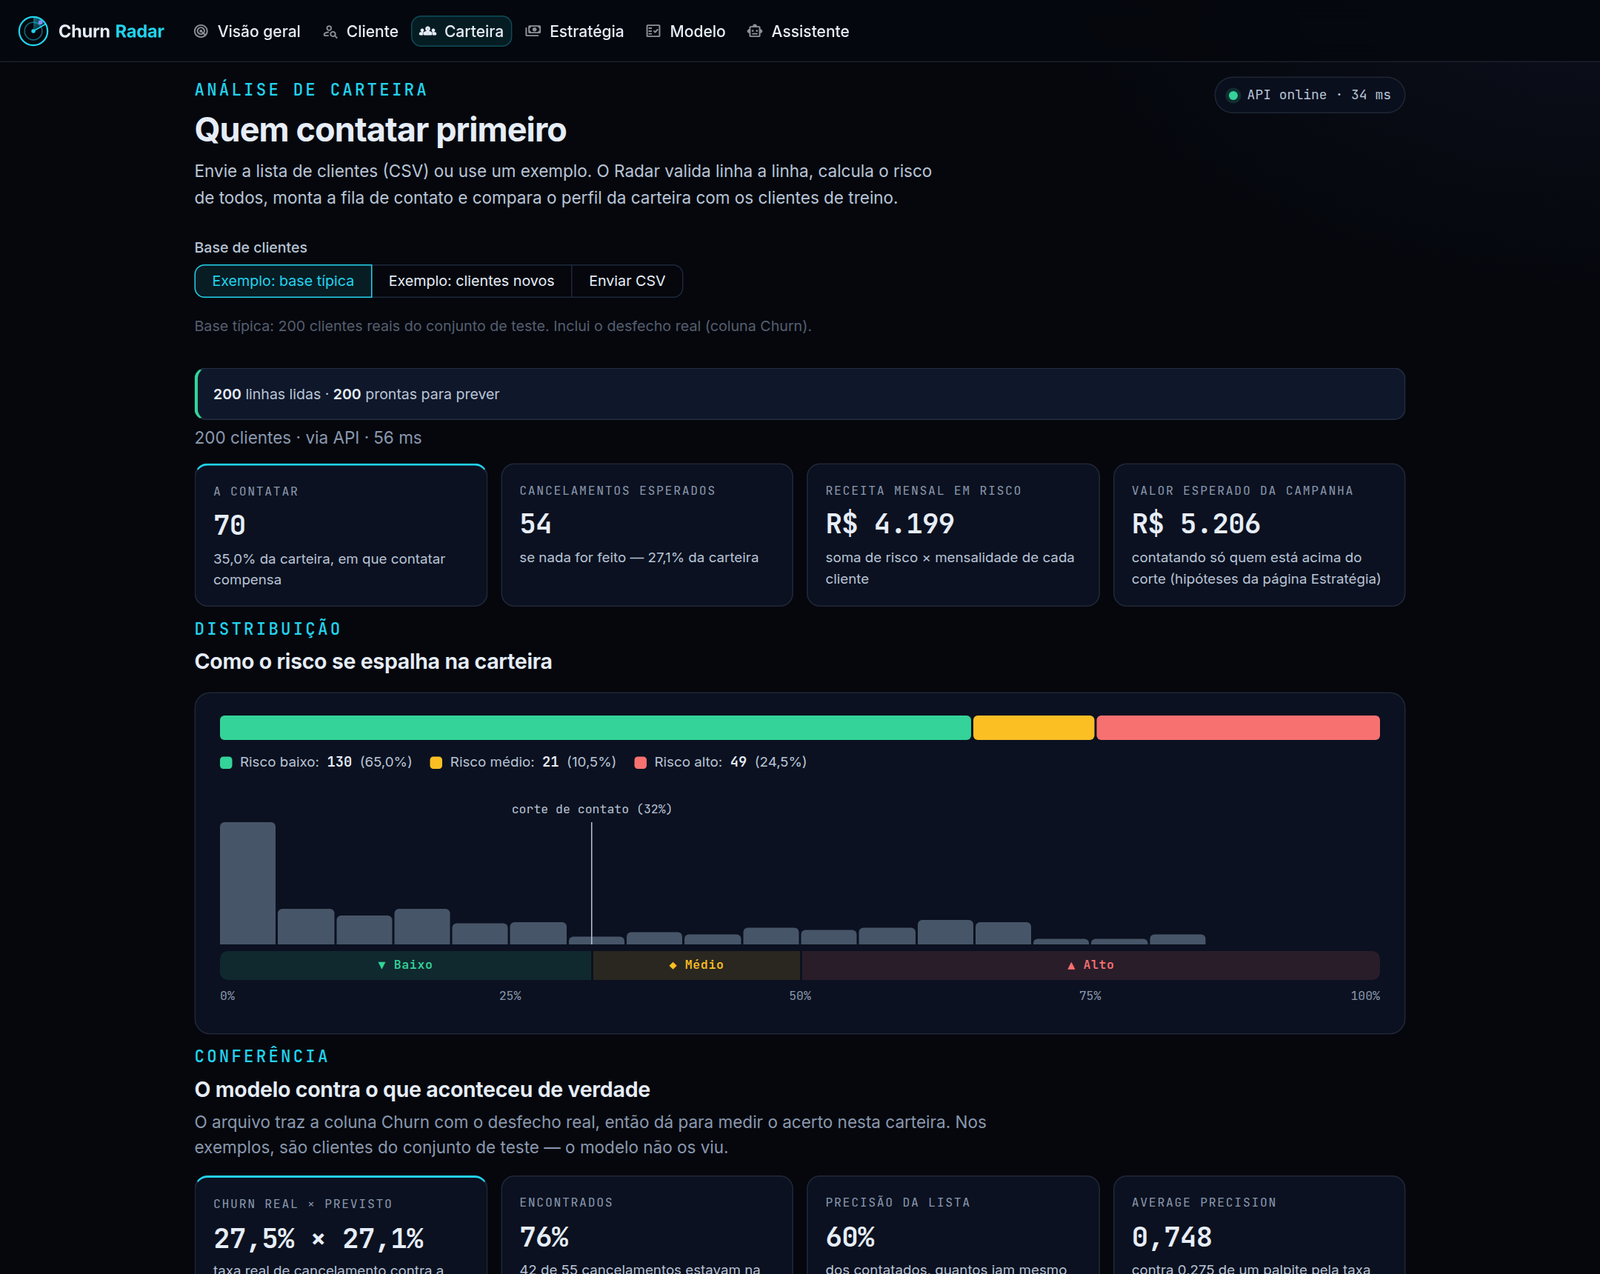
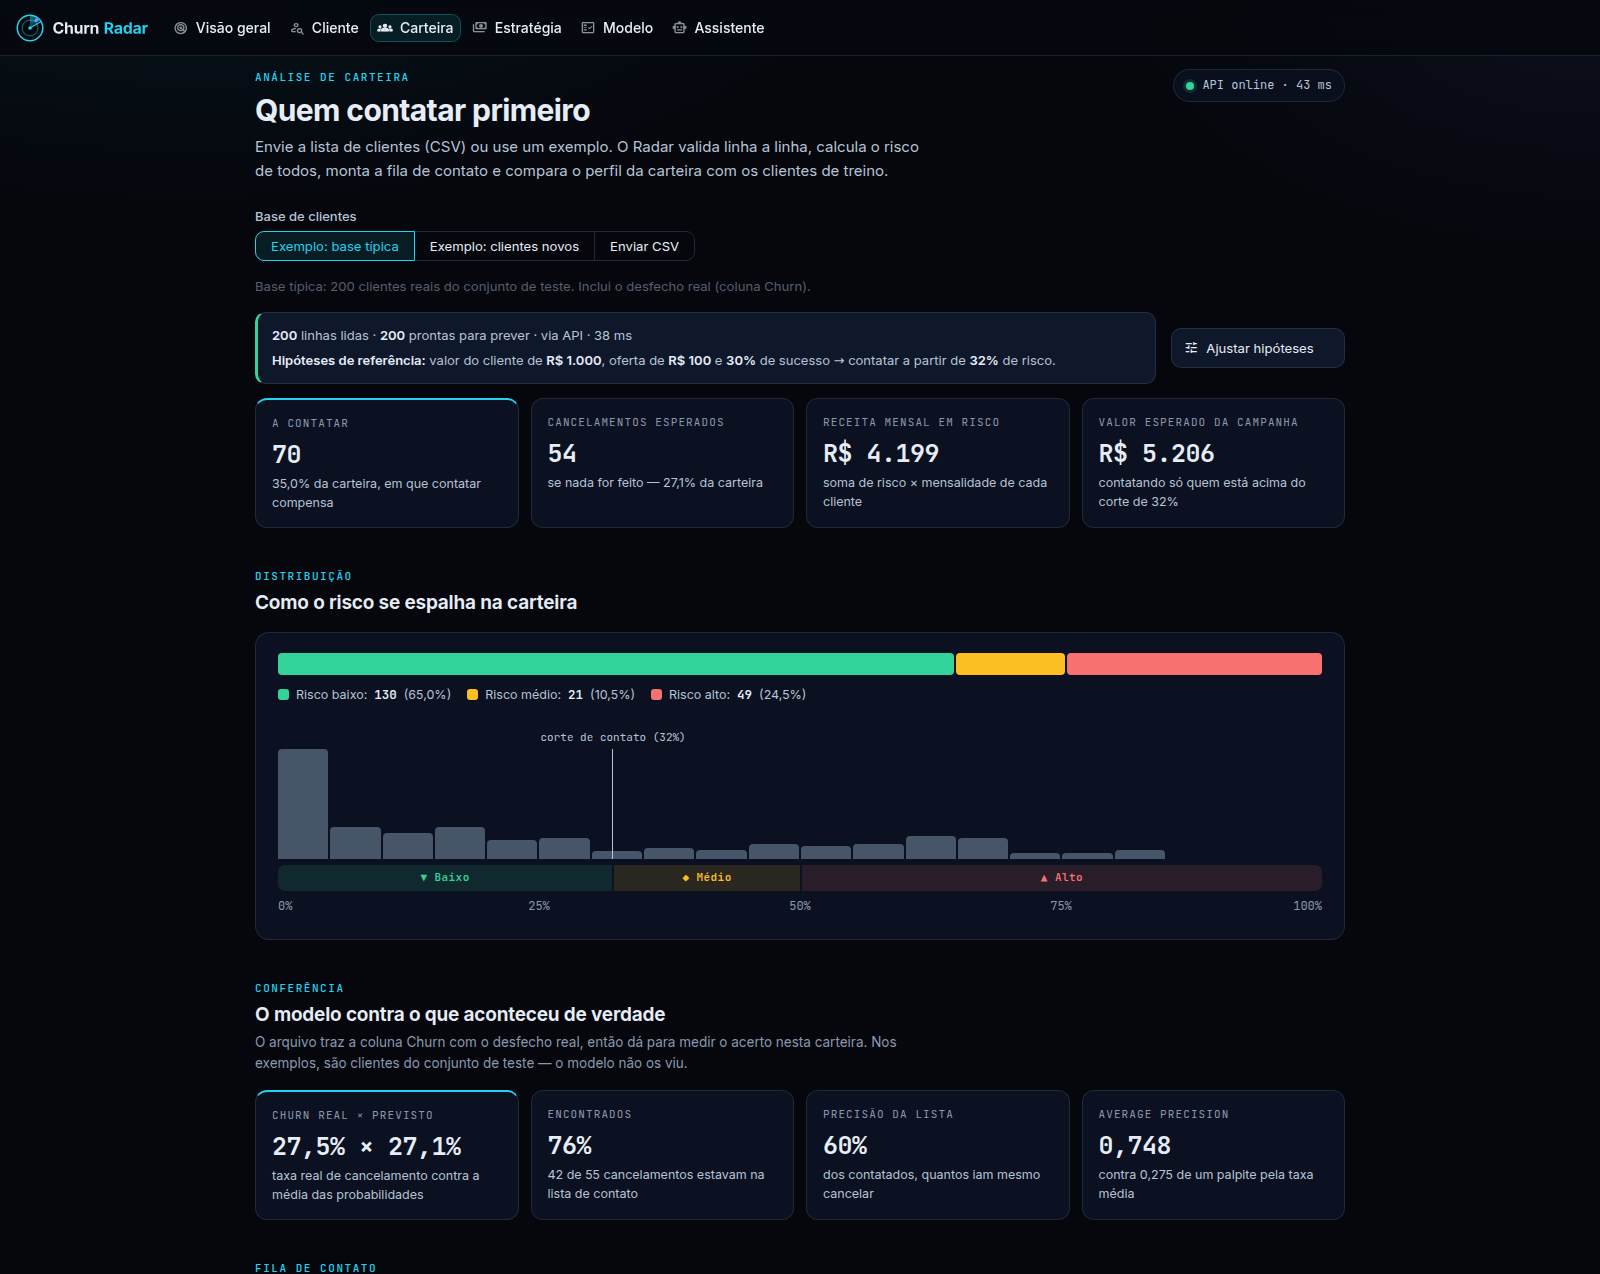
chore: pendências de baixa prioridade e capturas novas do README

diff --git a/src/labels.py b/src/labels.py
@@ -117,56 +117,6 @@ def _split_feature(feature: str) -> tuple[str, str | None]:
     return field, category
 
 
-def _category_label(field: str, category: str) -> str:
-    return VALUE_LABELS.get(field, {}).get(category, category).lower()
-
-
-def feature_name(feature: str) -> str:
-    """Nome legível de uma feature do modelo, sem valor.
-
-    'Contract_Two year' -> 'Contrato: bienal (2 anos)'
-    """
-    field, category = _split_feature(feature)
-    label = FIELD_LABELS.get(field, field)
-    if category is None or category == "Yes":
-        return label
-    if field == "InternetService" and category == "No":
-        return "Sem internet"
-    if field == "gender":
-        return "Gênero masculino" if category == "Male" else label
-    return f"{label}: {_category_label(field, category)}"
-
-
-def describe_feature(feature: str, value: float) -> str:
-    """Feature + valor deste cliente em português, para as explicações.
-
-    Numéricas mostram o valor real; as demais são dummies do one-hot (0/1),
-    então a frase diz se o cliente TEM ou NÃO TEM aquela categoria:
-    'Contrato: não é bienal (2 anos)' em vez de 'Contract_Two year = 0'.
-    """
-    field, category = _split_feature(feature)
-    label = FIELD_LABELS.get(field, field)
-    if field == "tenure":
-        return f"{label}: {value:.0f} {'mês' if round(value) == 1 else 'meses'}"
-    if field in ("MonthlyCharges", "TotalCharges"):
-        return f"{label}: {fmt_brl(value, cents=True)}"
-
-    active = value >= 0.5
-    if field == "SeniorCitizen" or category == "Yes":
-        return f"{label}: {'sim' if active else 'não'}"
-    if field == "gender":
-        return f"{label}: {'masculino' if active else 'feminino'}"
-    if field == "InternetService" and category == "No":
-        return "Sem internet" if active else "Tem internet"
-
-    cat = _category_label(field, category)
-    if cat.startswith("sem "):
-        # "No internet service" / "No phone service": a negação natural de
-        # "sem internet" é "com internet", não "não é sem internet".
-        return f"{label}: {cat}" if active else f"{label}: com {cat[4:]}"
-    return f"{label}: {cat}" if active else f"{label}: não é {cat}"
-
-
 def field_value_text(field: str, value) -> str:
     """Valor cru de um campo, formatado para leitura ('Fiber optic' -> 'Fibra óptica')."""
     if field == "tenure":

diff --git a/tests/test_api.py b/tests/test_api.py
@@ -262,3 +262,47 @@ def test_rate_limit_nao_e_driblado_trocando_o_x_forwarded_for(monkeypatch):
         for i in range(5)
     ]
     assert codes.count(429) == 2
+
+
+class TestErrosDoServidor:
+    """O payload já passou pelo Pydantic: o que falhar depois é do servidor
+    (modelo corrompido, versão incompatível). Resposta curta, sem traceback."""
+
+    @staticmethod
+    def _quebra(*args, **kwargs):
+        raise RuntimeError("modelo corrompido")
+
+    def test_predict_devolve_500_sem_vazar_o_erro(self, monkeypatch):
+        monkeypatch.setattr(api_module.predictor, "predict", self._quebra)
+        response = client.post("/predict", json=make_customer())
+        assert response.status_code == 500
+        assert response.json() == {"detail": "Erro interno ao gerar a previsão."}
+
+    def test_lote_devolve_500(self, monkeypatch):
+        monkeypatch.setattr(api_module.predictor, "predict", self._quebra)
+        response = client.post("/predict/batch", json={"customers": [make_customer()]})
+        assert response.status_code == 500
+        assert "lote" in response.json()["detail"]
+
+    def test_explain_sem_shap_devolve_503(self, monkeypatch):
+        def sem_shap(*args, **kwargs):
+            raise ImportError("No module named 'shap'")
+
+        monkeypatch.setattr(api_module.predictor, "explain", sem_shap)
+        response = client.post("/explain", json=make_customer())
+        assert response.status_code == 503
+        assert "SHAP" in response.json()["detail"]
+
+    def test_explain_com_erro_inesperado_devolve_500(self, monkeypatch):
+        monkeypatch.setattr(api_module.predictor, "explain", self._quebra)
+        response = client.post("/explain", json=make_customer())
+        assert response.status_code == 500
+
+
+def test_429_tambem_vai_para_o_log(monkeypatch, caplog):
+    monkeypatch.setattr(api_module, "RATE_LIMIT_PER_MINUTE", 1)
+    monkeypatch.setattr(api_module, "_hits", api_module.defaultdict(api_module.deque))
+    with caplog.at_level("INFO", logger="churn_api"):
+        codes = [client.post("/predict", json=make_customer()).status_code for _ in range(2)]
+    assert codes == [200, 429]
+    assert any('"status": 429' in record.getMessage() for record in caplog.records)

diff --git a/src/api.py b/src/api.py
@@ -86,26 +86,33 @@ def _client_ip(request: Request) -> str:
     return request.client.host if request.client else "desconhecido"
 
 
+def _rate_limited(request: Request) -> JSONResponse | None:
+    """429 se este IP passou do limite no último minuto; None se pode seguir."""
+    if RATE_LIMIT_PER_MINUTE <= 0 or request.url.path not in _RATE_LIMITED_PATHS:
+        return None
+    now = time.monotonic()
+    hits = _hits[_client_ip(request)]
+    while hits and now - hits[0] > 60:
+        hits.popleft()
+    if len(hits) >= RATE_LIMIT_PER_MINUTE:
+        return JSONResponse(
+            status_code=429,
+            content={"detail": "Muitas requisições. Tente de novo em um minuto."},
+            headers={"Retry-After": "60"},
+        )
+    hits.append(now)
+    if len(_hits) > 10_000:  # descarta IPs sem requisição no último minuto
+        for ip in [ip for ip, q in _hits.items() if not q or now - q[-1] > 60]:
+            del _hits[ip]
+    return None
+
+
 @app.middleware("http")
 async def rate_limit_and_log(request: Request, call_next):
-    if RATE_LIMIT_PER_MINUTE > 0 and request.url.path in _RATE_LIMITED_PATHS:
-        now = time.monotonic()
-        hits = _hits[_client_ip(request)]
-        while hits and now - hits[0] > 60:
-            hits.popleft()
-        if len(hits) >= RATE_LIMIT_PER_MINUTE:
-            return JSONResponse(
-                status_code=429,
-                content={"detail": "Muitas requisições. Tente de novo em um minuto."},
-                headers={"Retry-After": "60"},
-            )
-        hits.append(now)
-        if len(_hits) > 10_000:  # descarta IPs sem requisição no último minuto
-            for ip in [ip for ip, q in _hits.items() if not q or now - q[-1] > 60]:
-                del _hits[ip]
-
     started = time.perf_counter()
-    response = await call_next(request)
+    # Os 429 também passam pelo log abaixo: antes eles saíam direto, e um
+    # abuso (ou um cliente legítimo travado no limite) ficava invisível.
+    response = _rate_limited(request) or await call_next(request)
     elapsed_ms = (time.perf_counter() - started) * 1000
     response.headers["X-Response-Time-ms"] = f"{elapsed_ms:.1f}"
     if request.url.path != "/health":

diff --git a/src/train.py b/src/train.py
@@ -503,7 +503,7 @@ def consistent_partial_dependence(
 
 
 def redundancy_stats(X_full: pd.DataFrame) -> dict[str, float]:
-    """Evidência para EXCLUDED_FEATURES, medida nos dados a cada treino.
+    """Evidência para EXCLUDED_FEATURES, medida nos dados de TREINO a cada treino.
 
     - `monthly_r2_services`: R² de uma regressão linear da mensalidade sobre
       as dummies dos serviços contratados (1,0 = totalmente determinada).
@@ -550,17 +550,20 @@ def main() -> None:
 
     raw = load_raw_data(RAW_DATA_PATH)
     X_full = preprocess_features(raw[RAW_INPUT_COLUMNS])
-    redundancy = redundancy_stats(X_full)
     X_all = X_full.drop(columns=list(EXCLUDED_FEATURES))
-    print(
-        f"Mensalidade explicada pelos serviços: R² = {redundancy['monthly_r2_services']:.3f} "
-        f"| correlação total gasto × tempo de casa: {redundancy['total_vs_tenure_corr']:.2f}"
-    )
     y_all = raw[TARGET_COL].astype(int)
     feature_columns = list(X_all.columns)
 
     idx_train, idx_test = train_test_split(
         raw.index, test_size=TEST_SIZE, random_state=RANDOM_STATE, stratify=y_all
+    )
+    # A evidência para tirar mensalidade e total gasto do modelo é uma decisão
+    # de modelagem: medida só no treino, como todas as outras. O teste só é
+    # tocado na avaliação final.
+    redundancy = redundancy_stats(X_full.loc[idx_train])
+    print(
+        f"Mensalidade explicada pelos serviços: R² = {redundancy['monthly_r2_services']:.3f} "
+        f"| correlação total gasto × tempo de casa: {redundancy['total_vs_tenure_corr']:.2f}"
     )
     X_train, X_test = X_all.loc[idx_train], X_all.loc[idx_test]
     y_train, y_test = y_all.loc[idx_train], y_all.loc[idx_test]

diff --git a/tests/test_ui.py b/tests/test_ui.py
@@ -57,6 +57,16 @@ def test_tabela_leva_o_nome_da_coluna_em_cada_celula():
     assert "cr-table--stack" in markup
 
 
+def test_logit_para_probabilidade_nao_estoura_com_valores_extremos():
+    """A conversão usada na explicação aceita log-odds de qualquer tamanho
+    (math.exp(-x) puro dava OverflowError para x < -709)."""
+    from src.ui.charts import logit_to_p
+
+    assert logit_to_p(-1000) == 0.0
+    assert logit_to_p(1000) == 1.0
+    assert logit_to_p(0) == 0.5
+
+
 def test_app_completo_abre_na_visao_geral():
     at = AppTest.from_file(APP, default_timeout=TIMEOUT).run()
     assert not at.exception
@@ -235,6 +245,18 @@ class TestAssistente:
         text = html(at)
         assert "previsão do modelo" in text
         assert "R\\$ 124" in text  # cifrão escapado: não vira fórmula no Markdown
+        # O contador do topo já desconta a pergunta feita (antes ficava velho
+        # até a próxima interação).
+        assert "2 pergunta(s) ao vivo disponível(is)" in text
+
+    def test_pergunta_bloqueada_pelo_limite_avisa_em_vez_de_sumir(self, monkeypatch):
+        monkeypatch.setenv("GEMINI_API_KEY", "chave-de-teste")
+        monkeypatch.setattr("src.ui.pages.assistente.AGENT_MAX_QUESTIONS_PER_SESSION", 0)
+        at = page("assistente")
+        at.session_state["pending_prompt"] = "Qual o risco deste cliente?"
+        at.run()
+        assert not at.exception
+        assert "Sua pergunta não foi enviada" in html(at)
 
 
 def test_assistente_mostra_resposta_gravada_com_data_e_modelo(tmp_path, monkeypatch):

diff --git a/tests/test_labels.py b/tests/test_labels.py
@@ -5,8 +5,6 @@ import pytest
 from src.labels import (
     FIELD_LABELS,
     VALUE_LABELS,
-    describe_feature,
-    feature_name,
     field_contributions,
     field_value_text,
     value_label,
@@ -22,35 +20,6 @@ def test_todo_campo_tem_rotulo_em_portugues():
 @pytest.mark.parametrize("field", list(CATEGORY_OPTIONS))
 def test_todo_valor_categorico_tem_traducao(field):
     assert set(VALUE_LABELS[field]) == set(CATEGORY_OPTIONS[field])
-
-
-@pytest.mark.parametrize(
-    "feature,expected",
-    [
-        ("Contract_Two year", "Contrato: bienal (2 anos)"),
-        ("InternetService_No", "Sem internet"),
-        ("gender_Male", "Gênero masculino"),
-        ("TechSupport_Yes", "Suporte técnico"),
-        ("tenure", "Tempo de casa"),
-    ],
-)
-def test_feature_name(feature, expected):
-    assert feature_name(feature) == expected
-
-
-@pytest.mark.parametrize(
-    "feature,value,expected",
-    [
-        ("tenure", 1, "Tempo de casa: 1 mês"),
-        ("tenure", 5, "Tempo de casa: 5 meses"),
-        ("MonthlyCharges", 85.5, "Mensalidade: R$ 85,50"),
-        ("Contract_Two year", 0, "Contrato: não é bienal (2 anos)"),
-        ("OnlineSecurity_No internet service", 0, "Segurança online: com internet"),
-        ("SeniorCitizen", 1, "Idoso: sim"),
-    ],
-)
-def test_describe_feature(feature, value, expected):
-    assert describe_feature(feature, value) == expected
 
 
 def test_value_label():

diff --git a/src/ui/data.py b/src/ui/data.py
@@ -8,8 +8,9 @@ from __future__ import annotations
 
 import json
 import threading
-from datetime import UTC, datetime
+from datetime import datetime, timedelta, timezone, tzinfo
 from pathlib import Path
+from zoneinfo import ZoneInfo, ZoneInfoNotFoundError
 
 import numpy as np
 import pandas as pd
@@ -146,8 +147,22 @@ def _agent_usage() -> dict:
     return {"lock": threading.Lock(), "date": None, "count": 0, "quota_date": None}
 
 
+def _quota_timezone() -> tzinfo:
+    """A cota gratuita do Gemini zera à meia-noite do Pacífico, não à do UTC.
+
+    Contar o dia em UTC liberava perguntas ~8 h antes de a cota voltar: a
+    primeira falhava e a página só então marcava a cota como esgotada. Sem a
+    base de fusos (Windows sem o pacote tzdata), usa UTC−8 fixo — erra por
+    no máximo 1 h no horário de verão, em vez de 8 h.
+    """
+    try:
+        return ZoneInfo("America/Los_Angeles")
+    except ZoneInfoNotFoundError:
+        return timezone(timedelta(hours=-8))
+
+
 def _today() -> str:
-    return datetime.now(UTC).date().isoformat()
+    return datetime.now(_quota_timezone()).date().isoformat()
 
 
 def agent_questions_today() -> int:

diff --git a/src/ui/pages/assistente.py b/src/ui/pages/assistente.py
@@ -261,6 +261,7 @@ def render() -> None:
         s.demo_preloaded = True
         _add_recorded("prever")
     _demo_cards(live)
+    blocked_reason = reason
     if not live:
         if demo_answers().get("respostas"):
             reason += (
@@ -286,6 +287,13 @@ def render() -> None:
     s.pending_prompt = None
     if prompt and live:
         _ask_live(prompt)
+        # Nova execução para o contador "N pergunta(s) disponível(is)" e a
+        # caixa de digitação refletirem a pergunta que acabou de ser gasta.
+        st.rerun()
+    elif prompt:
+        # O limite acabou entre a pessoa digitar e enviar (outra sessão pode
+        # ter usado a cota do dia): avisar em vez de descartar em silêncio.
+        components.note(esc(f"Sua pergunta não foi enviada. {blocked_reason}"), "warn")
     if s.chat and st.button("Limpar conversa", icon=":material/delete_sweep:"):
         s.chat, s.agent_history = [], []
         st.rerun()

diff --git a/src/ui/charts.py b/src/ui/charts.py
@@ -484,4 +484,9 @@ def dot_ranges(
 
 
 def logit_to_p(x: float) -> float:
-    return 1.0 / (1.0 + math.exp(-x))
+    """Sigmoide numericamente estável: sem OverflowError para log-odds muito
+    negativos (math.exp(-x) estoura a partir de x < -709)."""
+    if x >= 0:
+        return 1.0 / (1.0 + math.exp(-x))
+    z = math.exp(x)
+    return z / (1.0 + z)

diff --git a/tests/test_business.py b/tests/test_business.py
@@ -179,3 +179,6 @@ class TestFormatacao:
         assert fmt_pp(0.123) == "+12,3 pp"
         assert fmt_pp(-0.05) == "−5,0 pp"
         assert fmt_pp(0.0) == "0,0 pp"
+        # Arredonda para zero: sem sinal ("+0,0 pp" sugeriria um aumento).
+        assert fmt_pp(0.0004) == "0,0 pp"
+        assert fmt_pp(-0.0004) == "0,0 pp"

diff --git a/CHANGELOG.md b/CHANGELOG.md
@@ -2,6 +2,30 @@
 
 Formato baseado em [Keep a Changelog](https://keepachangelog.com/pt-BR/1.1.0/); versões seguem [SemVer](https://semver.org/lang/pt-BR/).
 
+## [Não lançado]
+
+### Publicado
+- API no Render (`churn-radar-api.onrender.com`) e interface no Streamlit Community Cloud (`churn-radar-br.streamlit.app`), com os links no README.
+
+### Corrigido
+- **Rate limit:** o IP vem do último endereço do `X-Forwarded-For` (o que o proxy anexa); trocar o cabeçalho não dribla mais o limite.
+- **Base do RAG:** a `chroma_db/` não é mais versionada nem copiada na imagem — o assistente a monta na primeira busca. A reindexação calcula os embeddings antes de tocar no disco e troca a base de uma vez: uma falha (cota, rede) não apaga a base antiga.
+- **Interface:** rótulos e subtítulos saíam com 15 px (o estilo do Streamlit vencia o do tema) e as seções ficavam coladas; tabela da Estratégia cortada; títulos gigantes nas respostas do assistente; formulário da página Cliente com a parte de Cobrança inalcançável enquanto fixo; `/inicio` abria "Page not found".
+- **Cliente da API:** 429 e 500 (API acordada recusando o pedido) não aparecem mais como "API acordando"; carregar o modelo local não trava o chip de status.
+- `fmt_pp` mostrava "+0,0 pp" para diferenças que arredondam a zero; a sigmoide da explicação estourava para log-odds muito negativos.
+
+### Mudado
+- **Carteira:** as hipóteses de custo ajustadas na Estratégia valem também ali (corte, fila e valor esperado), numa faixa de status única.
+- **Assistente:** a ferramenta de previsão lista os valores permitidos de cada campo (enum no schema do Gemini); a última rodada não executa ferramenta cujo resultado seria descartado; o contador de perguntas atualiza na hora e a pergunta bloqueada pelo limite vira aviso; o dia da cota é contado no fuso do Pacífico, como o do Gemini.
+- **Textos derivados do treino:** nomes dos modelos num lugar só (`src/labels.py`) e números como "28 pesos", "7.032 clientes" e o churn do contrato bienal saem de `metrics.json`/`evaluation.json`.
+- `redundancy_stats` (a evidência para tirar mensalidade e total gasto do modelo) é medida só no treino.
+- `record_demo` salva a cada resposta e retoma de onde parou se a cota acabar.
+- Revisão de estética: radar no topo da Visão geral, tabelas que viram cartões no celular, faixa de risco colorida na fila de contato, capturas e GIF do README refeitos.
+
+### Adicionado
+- CI: build e healthcheck da imagem da interface, permissões mínimas (`contents: read`) e logs do container quando o teste da API falha.
+- Testes: de 263 para 287 (erros 500/503 da API, 429 no log, cliente com API ocupada × dormindo, reindexação do RAG, hipóteses compartilhadas, schema da ferramenta do agente).
+
 ## [2.0.0] — 2026-09-26
 
 ### Corrigido
